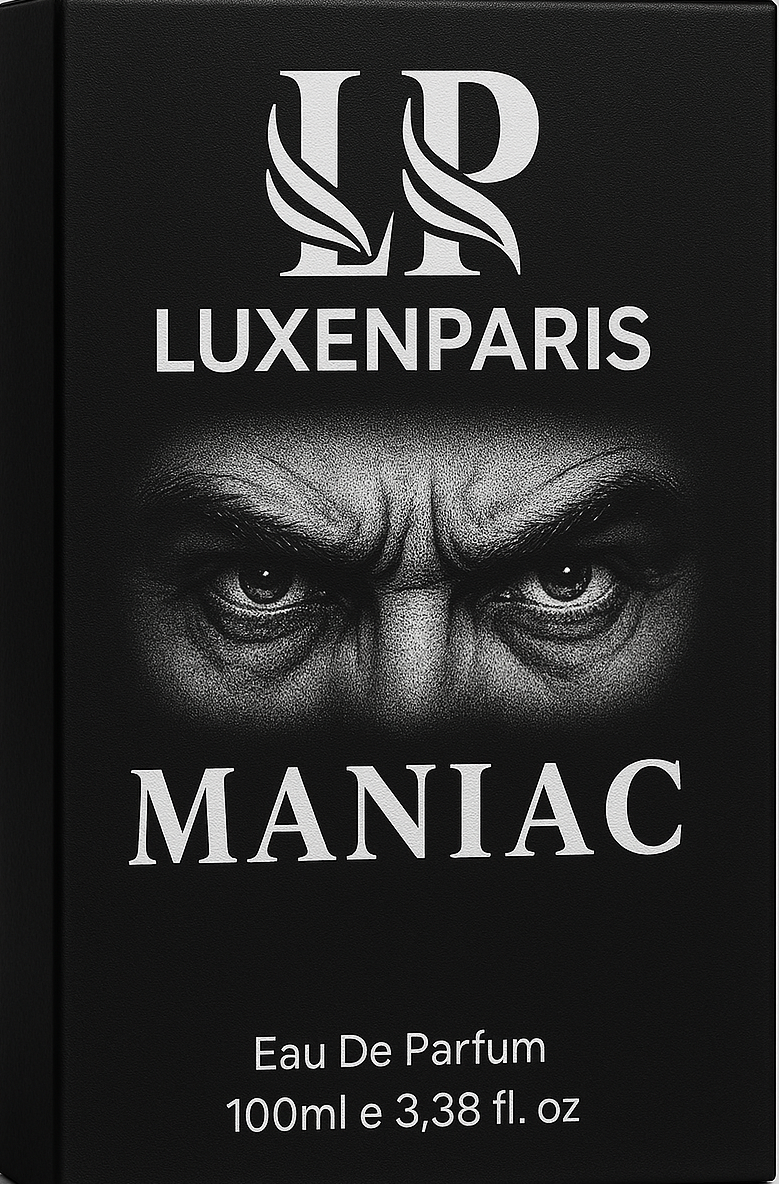
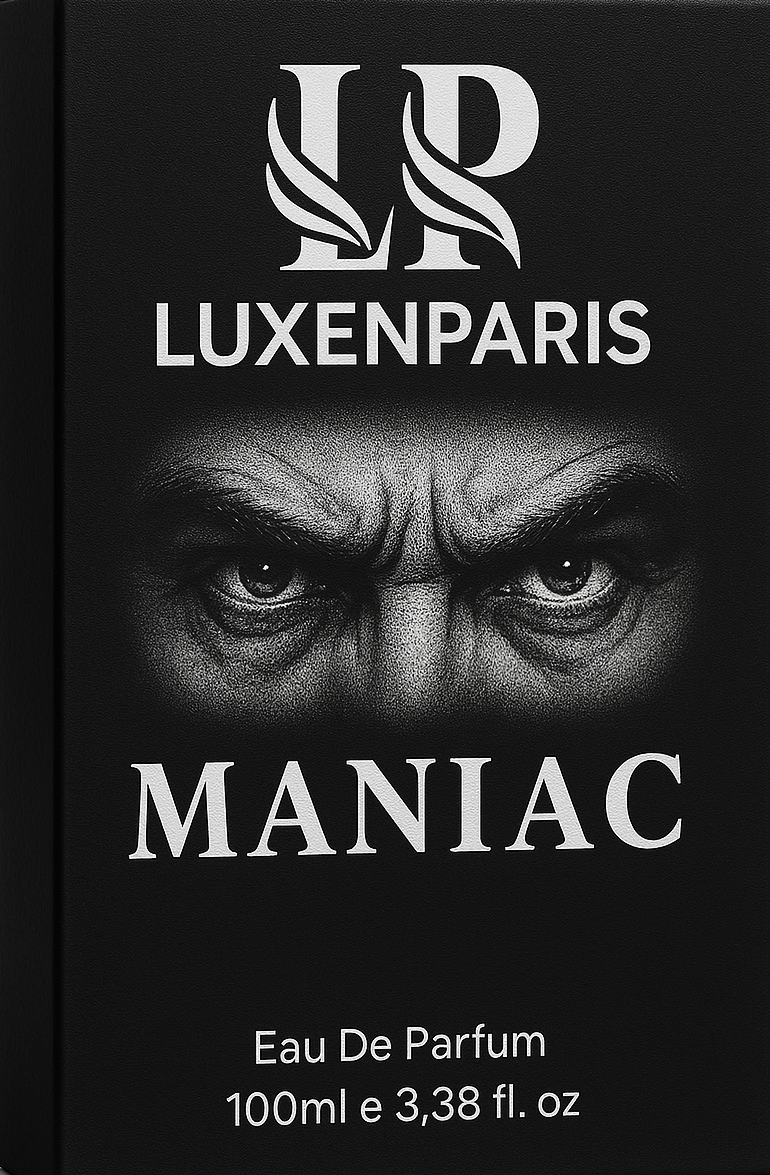
update file

diff --git a/index.html b/index.html
@@ -11,9 +11,10 @@
       <div class="circle"></div>
 
       <div class="container">
+        <!-- Navbar -->
         <header>
           <nav class="navbar">
-            <div class="logo"><img src="images/IMG_9075.JPG" alt="" /></div>
+            <div class="logo"><img src="images/IMG_9076.JPG" alt="" /></div>
             <ul class="navlist">
               <li>
                 <a href="#" class="navlinks active">Home</a>
@@ -25,7 +26,7 @@
                 <a href="#" class="navlinks">Deodorant</a>
               </li>
               <li>
-                <a href="#" class="navlinks">Body Spray</a>
+                <a href="#" class="navlinks">Elixir</a>
               </li>
               <li>
                 <a href="#" class="navlinks">Attar</a>
@@ -38,12 +39,13 @@
             </div>
           </nav>
         </header>
+        <!-- hero section -->
         <div class="hero-section">
           <div class="left-container">
             <h1>THE FRAGRANCE OF LIFE</h1>
           </div>
           <div class="middle-container">
-            <img src="images/heroImage.PNG" alt="" />
+            <img src="images/heroImage.PNG" alt="hero image" />
           </div>
           <div class="right-container">
             <p class="para" data-type="border-para">
@@ -54,5 +56,145 @@
         </div>
       </div>
     </div>
+
+    <!-- Slider -->
+    <div class="scroll-container bg-dark-black">
+      <div class="scroll">
+        <h2 data-type="scroll-txt">30% OFF</h2>
+        <h2 data-type="scroll-txt">Order Now</h2>
+        <div class="break"></div>
+      </div>
+
+      <div class="scroll">
+        <h2 data-type="scroll-txt">30% OFF</h2>
+        <h2 data-type="scroll-txt">Order Now</h2>
+        <div class="break"></div>
+      </div>
+
+      <div class="scroll">
+        <h2 data-type="scroll-txt">30% OFF</h2>
+        <h2 data-type="scroll-txt">Order Now</h2>
+        <div class="break"></div>
+      </div>
+
+      <div class="scroll">
+        <h2 data-type="scroll-txt">30% OFF</h2>
+        <h2 data-type="scroll-txt">Order Now</h2>
+        <div class="break"></div>
+      </div>
+    </div>
+
+    <main>
+      <section class="section bg-light-black">
+        <div class="container row">
+          <div class="product-container">
+            <img src="images/IMG_9078.PNG" alt="perfume image" />
+          </div>
+          <div class="content">
+            <h2>Our Little Story</h2>
+            <p class="para">
+              MANIAC was born from an unstoppable dream — to create a fragrance
+              that breaks every rule. Crafted with rare ingredients from across
+              the world, it became more than a perfume; it became a symbol of
+              ambition. From silent beginnings to standing on global stages,
+              MANIAC captured hearts with its fearless spirit. Today, it's the
+              scent of visionaries, rebels, and leaders. A reminder that
+              obsession isn't madness — it's greatness. MANIAC by LuxenParis —
+              Dare to be unforgettable.
+            </p>
+            <a href="#" class="primary-btn">Read More</a>
+          </div>
+        </div>
+      </section>
+
+      <!-- Selling Products -->
+      <section class="section bg-dark-black">
+        <div class="container column">
+          <h2>Best Selling Products</h2>
+          <div class="grid-card-container">
+            <div class="card">
+              <div class="card-product">
+                <img src="images/IMG_9039.JPG" alt="product image 1" />
+              </div>
+              <div class="card-info">
+                <h4>Perfume</h4>
+                <!-- <p class="price">$20.00</p> -->
+                <a href="#" class="primary-btn">Buy Now</a>
+              </div>
+            </div>
+            <div class="card">
+              <div class="card-product">
+                <img src="images/IMG_9040.JPG" alt="product image 1" />
+              </div>
+              <div class="card-info">
+                <h4>Perfume</h4>
+                <!-- <p class="price">$20.00</p> -->
+                <a href="#" class="primary-btn">Buy Now</a>
+              </div>
+            </div>
+            <div class="card">
+              <div class="card-product">
+                <img src="images/IMG_9041.JPG" alt="product image 1" />
+              </div>
+              <div class="card-info">
+                <h4>Perfume</h4>
+                <!-- <p class="price">$20.00</p> -->
+                <a href="#" class="primary-btn">Buy Now</a>
+              </div>
+            </div>
+            <div class="card">
+              <div class="card-product">
+                <img src="images/IMG_9042.JPG" alt="product image 1" />
+              </div>
+              <div class="card-info">
+                <h4>Perfume</h4>
+                <!-- <p class="price">$20.00</p> -->
+                <a href="#" class="primary-btn">Buy Now</a>
+              </div>
+            </div>
+
+            <!-- <div class="card">
+              <div class="card-product">
+                <img src="images/IMG_9114.PNG" alt="product image 1" />
+              </div>
+              <div class="card-info">
+                <h4>Perfume</h4> -->
+            <!-- <p class="price">$20.00</p> -->
+            <!-- <a href="#" class="primary-btn">Buy Now</a>
+              </div>
+            </div> -->
+
+            <!-- <div class="card">
+              <div class="card-product">
+                <img src="images/IMG_9039.JPG" alt="product image 1" />
+              </div>
+              <div class="card-info">
+                <h4>Perfume</h4> -->
+            <!-- <p class="price">$20.00</p> -->
+            <!-- <a href="#" class="primary-btn">Buy Now</a>
+              </div>
+            </div> -->
+          </div>
+        </div>
+      </section>
+      <!--Our Services-->
+
+      <!-- ---Sale Section--- -->
+      <section class="section bg-dark-black celebrate">
+        <div class="glow1"></div>
+        <div class="glow2"></div>
+        <div class="container row">
+          <div class="sale-product">
+            <img src="images/IMG_8996.PNG" alt="sale image" />
+          </div>
+          <div class="sale-content">
+            <p class="sale-heading">Celebrate Day Sale!</p>
+            <h3 class="sale-txt">Save 30% Off On All <br />Items Collection</h3>
+            <a href="#" class="primary-btn">Shop Now</a>
+          </div>
+        </div>
+      </section>
+      <!-- Gallery Section -->
+    </main>
   </body>
 </html>

diff --git a/style.css b/style.css
@@ -58,28 +58,29 @@
 .container {
   width: 100%;
   max-width: 1300px;
-  height: 100vh;
+  min-height: 100vh;
   margin: auto;
+  padding: 0 2rem;
 }
 
 header {
   height: 14vh;
 }
 .logo {
-  width: 1.3rem;
+  width: 3rem;
   aspect-ratio: 1;
-  background: var(--primary-white);
-  transform: rotate(45deg);
+  /* background: var(--primary-white); */
+  /* transform: rotate(360deg); */
   position: relative;
 }
 
-.logo::before {
+/* .logo::before {
   content: "";
   position: absolute;
   width: 1.4rem;
   aspect-ratio: 1;
   border: 0.1rem solid var(--primary-white);
-}
+} */
 
 .navbar {
   width: 100%;
@@ -161,3 +162,151 @@ img {
 }
 
 /* ----------Slider----------- */
+.scroll-container {
+  white-space: nowrap;
+  overflow-x: hidden;
+  padding: 2rem 0;
+}
+.scroll {
+  display: inline-block;
+  animation: 10s scroll infinite linear;
+}
+h2 {
+  color: var(--primary-pista);
+  font-size: 4rem;
+  font-family: "Allura", cursive;
+  display: inline-block;
+}
+[data-type="scroll-txt"] {
+  color: var(--primary-white);
+  margin: 0 2rem;
+}
+.break {
+  width: 2rem;
+  aspect-ratio: 1;
+  background: var(--primary-pista);
+  border-radius: 50%;
+  display: inline-block;
+}
+
+@keyframes scroll {
+  from {
+    transform: translateX(0);
+  }
+  to {
+    transform: translateX(-100%);
+  }
+}
+
+/* Story section */
+.product-container {
+  height: 35rem;
+}
+.row {
+  display: flex;
+  justify-content: space-around;
+  align-items: center;
+}
+.section {
+  padding: 5rem 0;
+}
+.content {
+  width: 100%;
+  max-width: 550px;
+}
+.primary-btn {
+  color: var(--primary-black);
+  background: var(--primary-pista);
+  padding: 0.8rem 1.2rem;
+}
+.primary-btn:hover {
+  background: var(--primary-pink);
+}
+
+/* --Selling Products-- */
+.column {
+  display: flex;
+  flex-direction: column;
+  justify-content: center;
+  align-items: center;
+  gap: 3rem;
+  text-align: center;
+}
+.card-product {
+  height: 20rem;
+}
+.grid-card-container {
+  display: grid;
+  grid-template-columns: repeat(3, 1fr);
+  gap: 3rem;
+  width: 100%;
+  height: 100%;
+}
+
+.card {
+  background: var(--primary-black);
+  padding: 2rem 0;
+  border: 0.1rem solid rgb(51, 51, 51);
+  transition: transform 0.3s ease-in-out;
+}
+.card:hover {
+  background: rgb(51, 51, 51);
+  transform: scale(1.05);
+}
+h4,
+.price {
+  color: var(--primary-white);
+  font-size: 1.2rem;
+}
+.card-info {
+  display: flex;
+  flex-direction: column;
+  gap: 0.5rem;
+}
+
+/* --Sale Section-- */
+.sale-product {
+  height: 14rem;
+}
+.sale-heading {
+  color: var(--primary-pink);
+  font-size: 1.3rem;
+  text-transform: uppercase;
+}
+.sale-content {
+  display: flex;
+  flex-direction: column;
+  justify-content: center;
+  align-items: flex-start;
+  gap: 0.8rem;
+}
+
+.sale-txt {
+  font-size: 2.2rem;
+  color: var(--primary-white);
+}
+.celebrate {
+  position: relative;
+  isolation: isolate;
+  overflow: hidden;
+}
+
+.glow1,
+.glow2 {
+  position: absolute;
+  width: 15rem;
+  aspect-ratio: 1;
+  border-radius: 50%;
+  filter: blur(150px);
+  z-index: -1;
+}
+.glow1 {
+  top: 50px;
+  left: 40px;
+  background: orangered;
+}
+.glow2 {
+  bottom: 70px;
+  right: 50px;
+  background: blue;
+}
